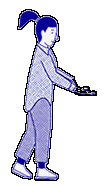
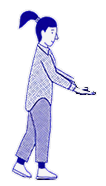
Fix figure underlays: remove black fringe, keep solid fills.

diff --git a/main.js b/main.js
@@ -98,7 +98,7 @@
     wrap.style.height = f.h + "px";
 
     const img = document.createElement("img");
-    img.src = "img/" + f.src + ".png?v=3";
+    img.src = "img/" + f.src + ".png?v=4";
     img.alt = "";
     img.draggable = false;
     img.decode && img.decode().catch(() => {});
